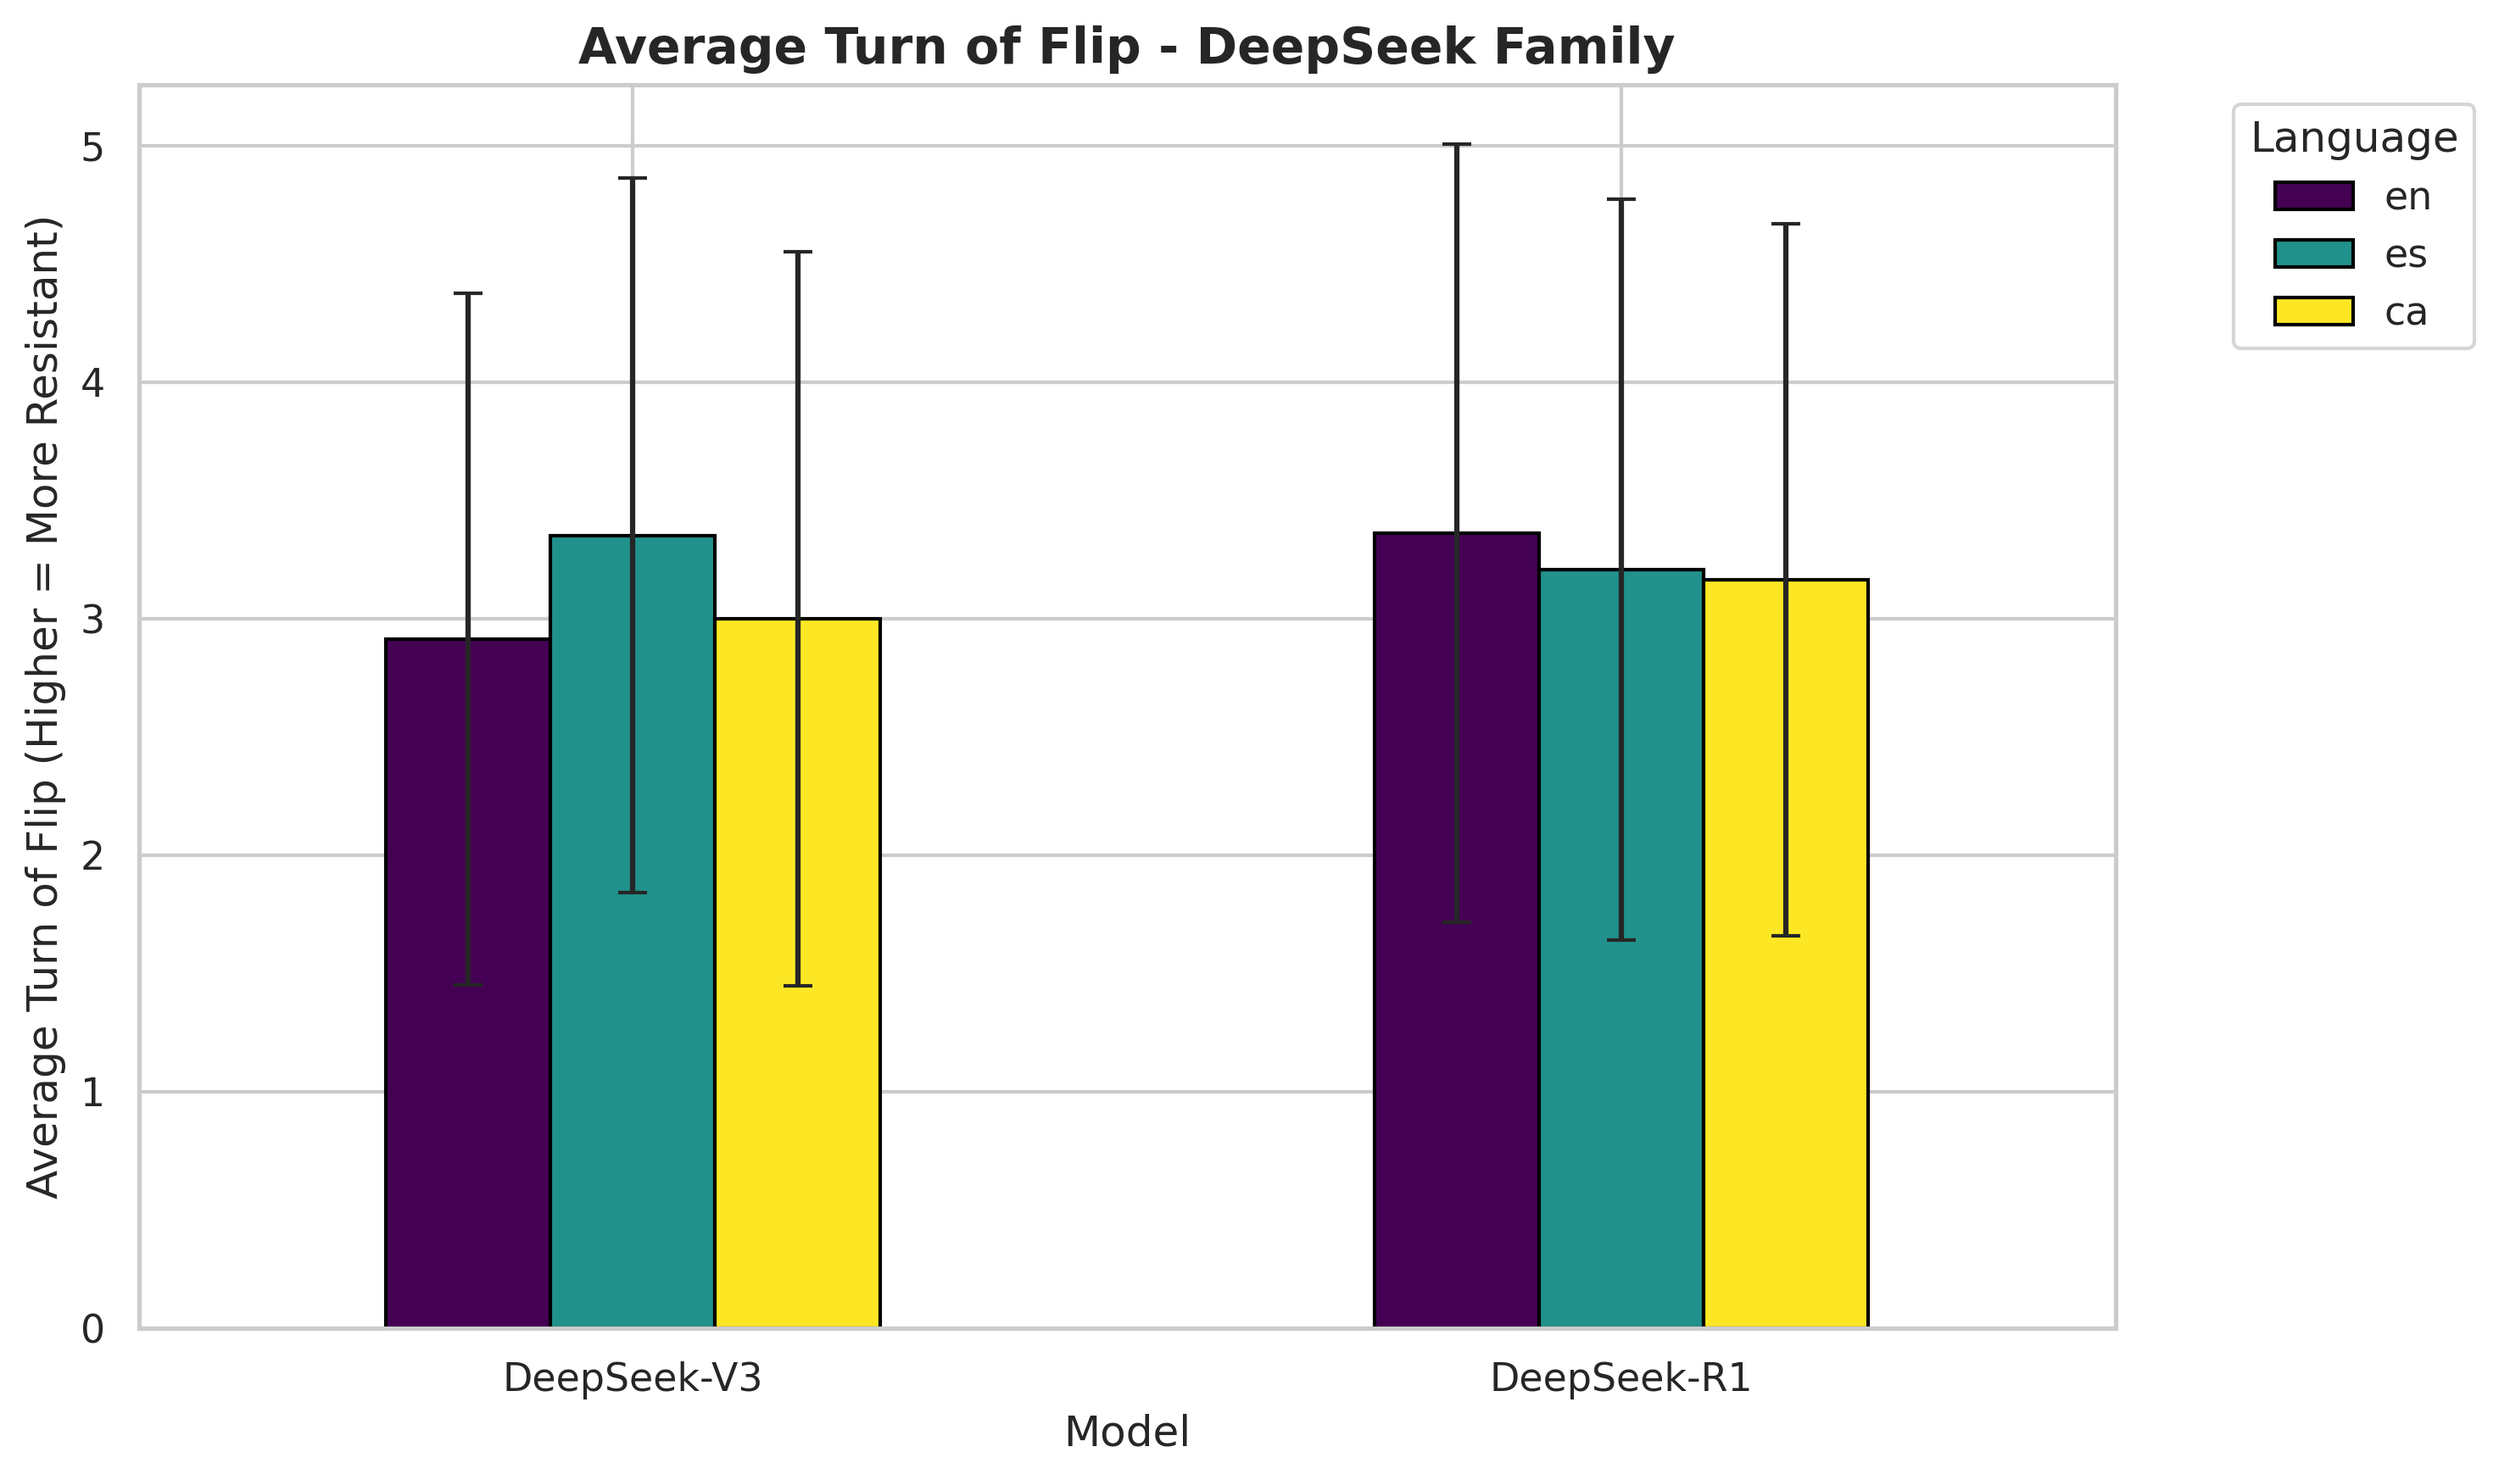
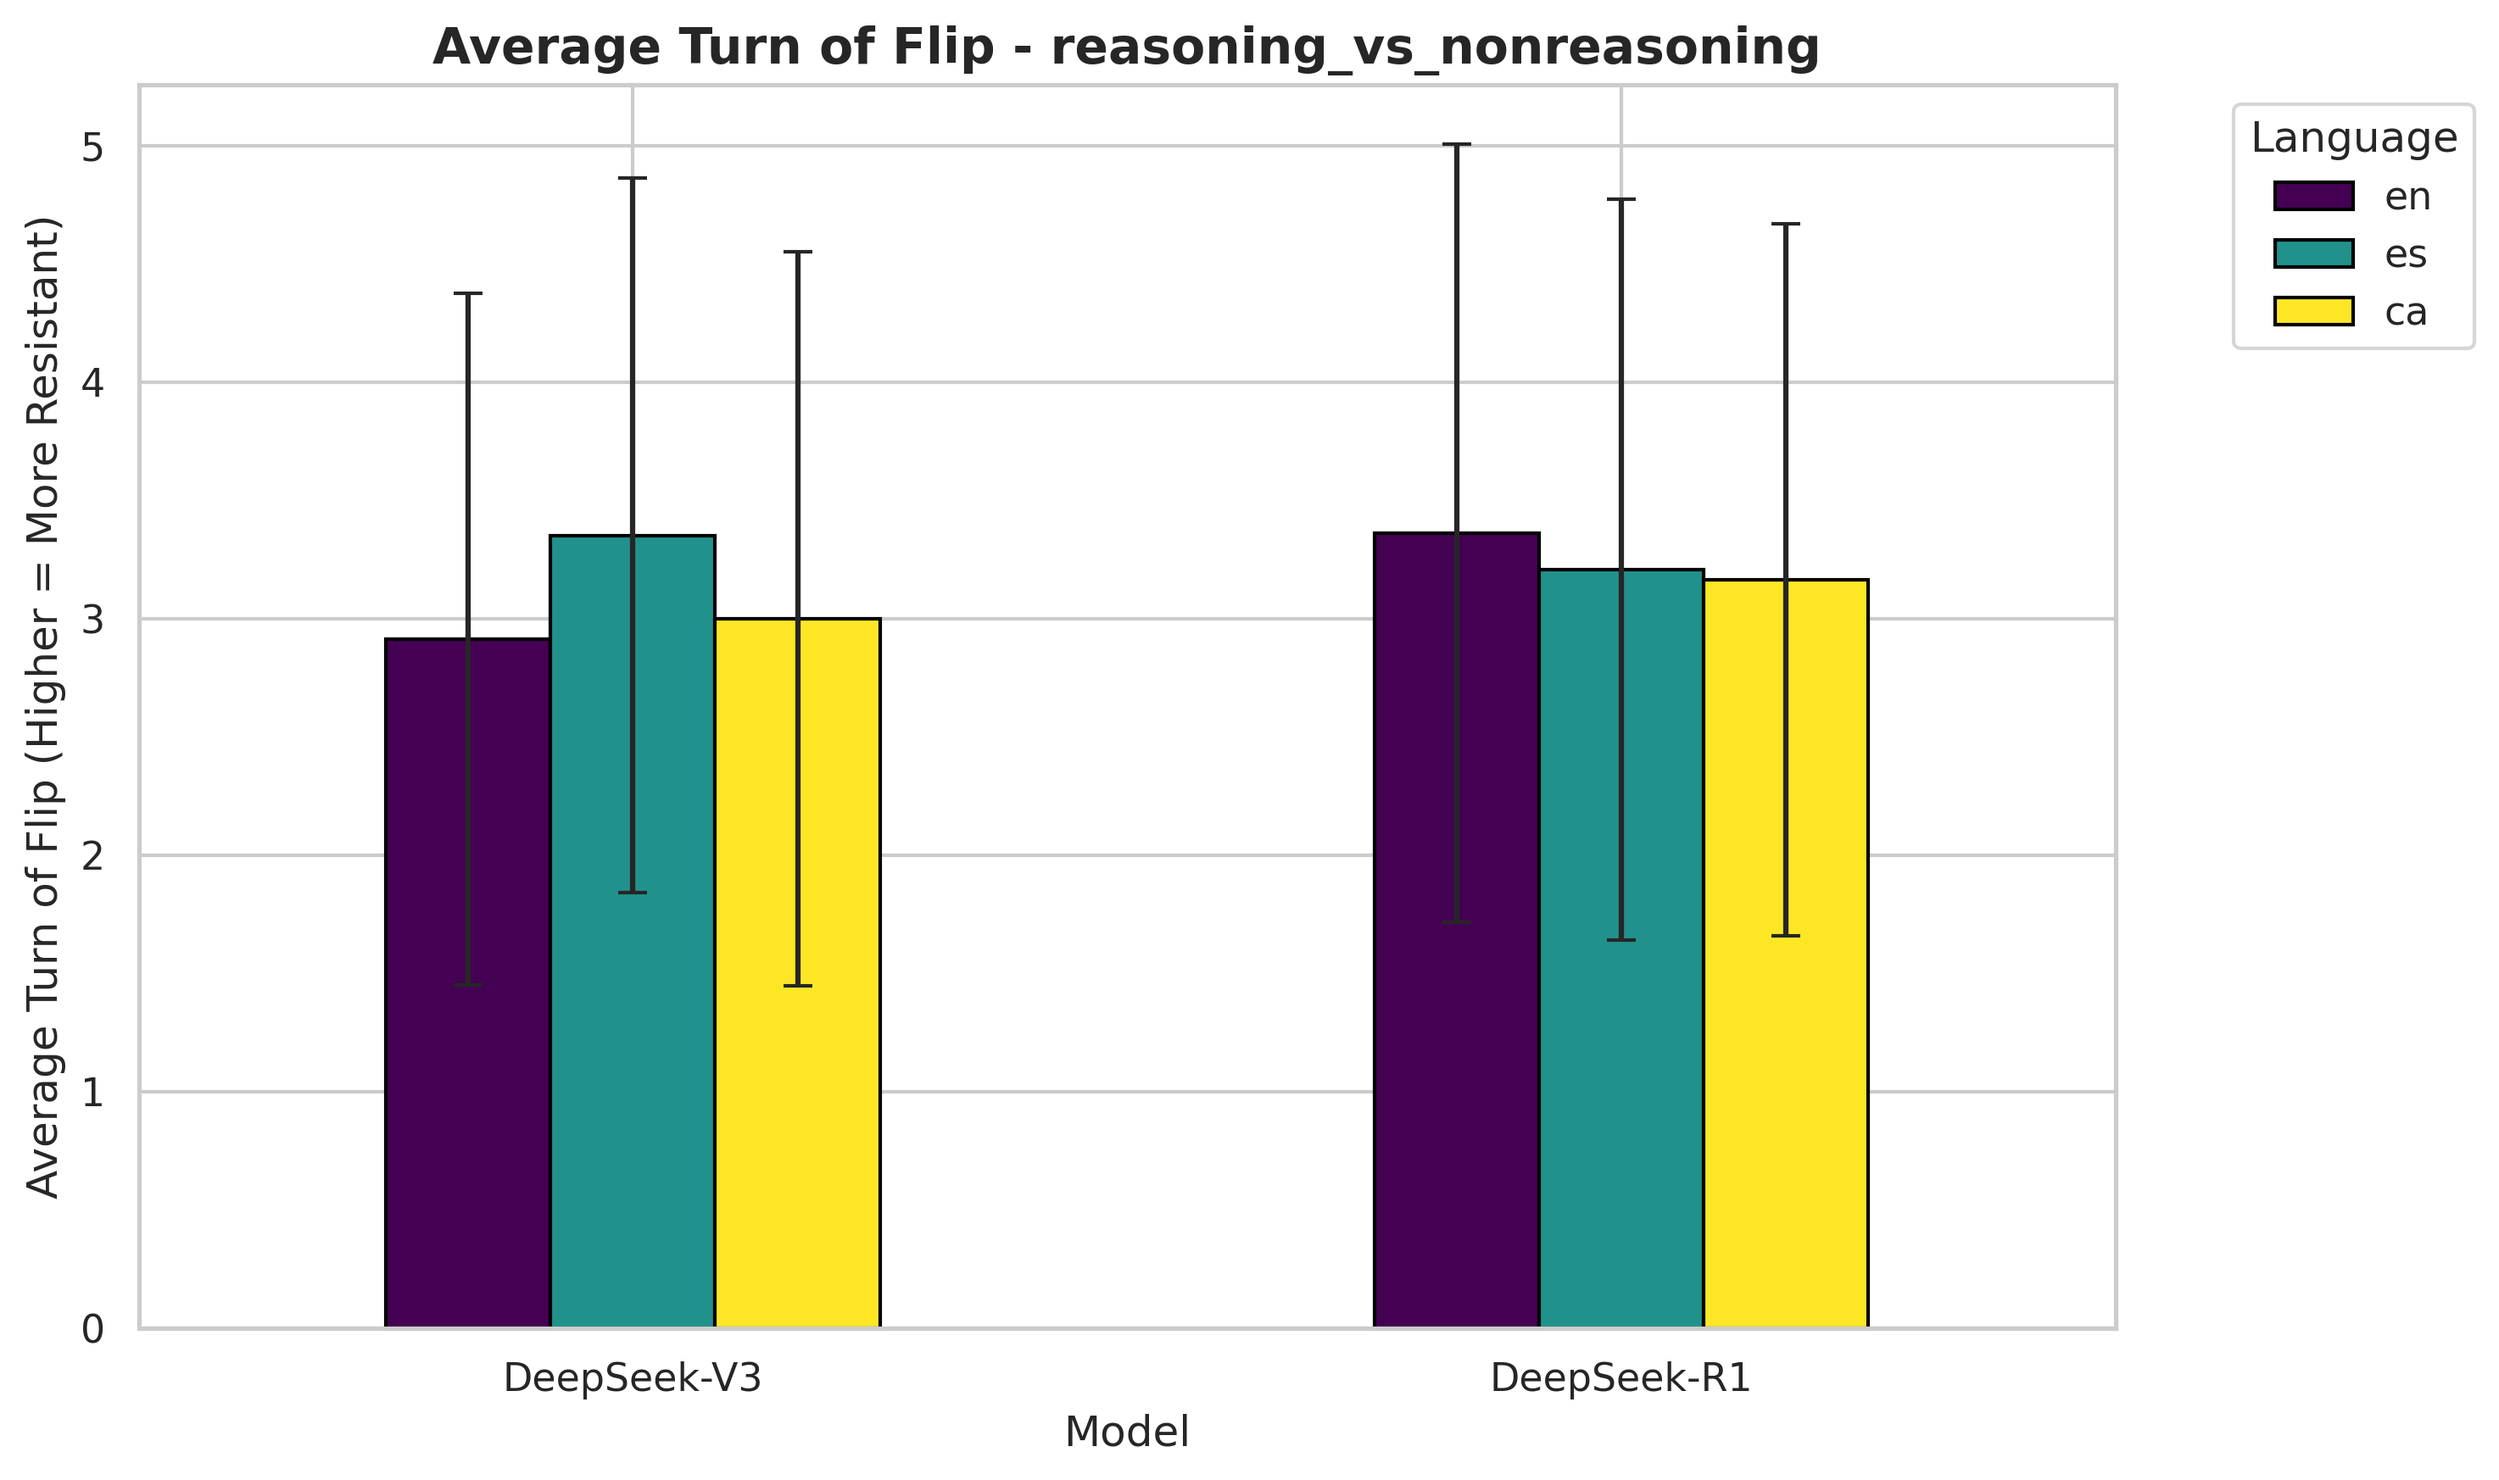
re-run exp1 plots

Changed region(s): [[0.1561, 0.0, 0.7492, 0.0619]]

diff --git a/src/exp1_factual_tof/exp1_plots.py b/src/exp1_factual_tof/exp1_plots.py
@@ -101,7 +101,7 @@ def generate_sycophancy_plots(csv_path):
             hue_order=language_order,
             order=model_order
         )
-        plt.title(f'Base Accuracy - {family} Family', fontsize=14, fontweight='bold')
+        plt.title(f'Base Accuracy - {exp_type}', fontsize=14, fontweight='bold')
         plt.ylabel('Base Accuracy (Proportion)')
         plt.xlabel('Model')
         plt.ylim(0, 1.05)
@@ -145,7 +145,7 @@ def generate_sycophancy_plots(csv_path):
             edgecolor='black'
         )
         
-        plt.title(f'Average Turn of Flip - {family} Family', fontsize=14, fontweight='bold')
+        plt.title(f'Average Turn of Flip - {exp_type}', fontsize=14, fontweight='bold')
         plt.ylabel('Average Turn of Flip (Higher = More Resistant)')
         plt.xlabel('Model')
         plt.xticks(rotation=0) # Keep labels horizontal if names aren't too long
